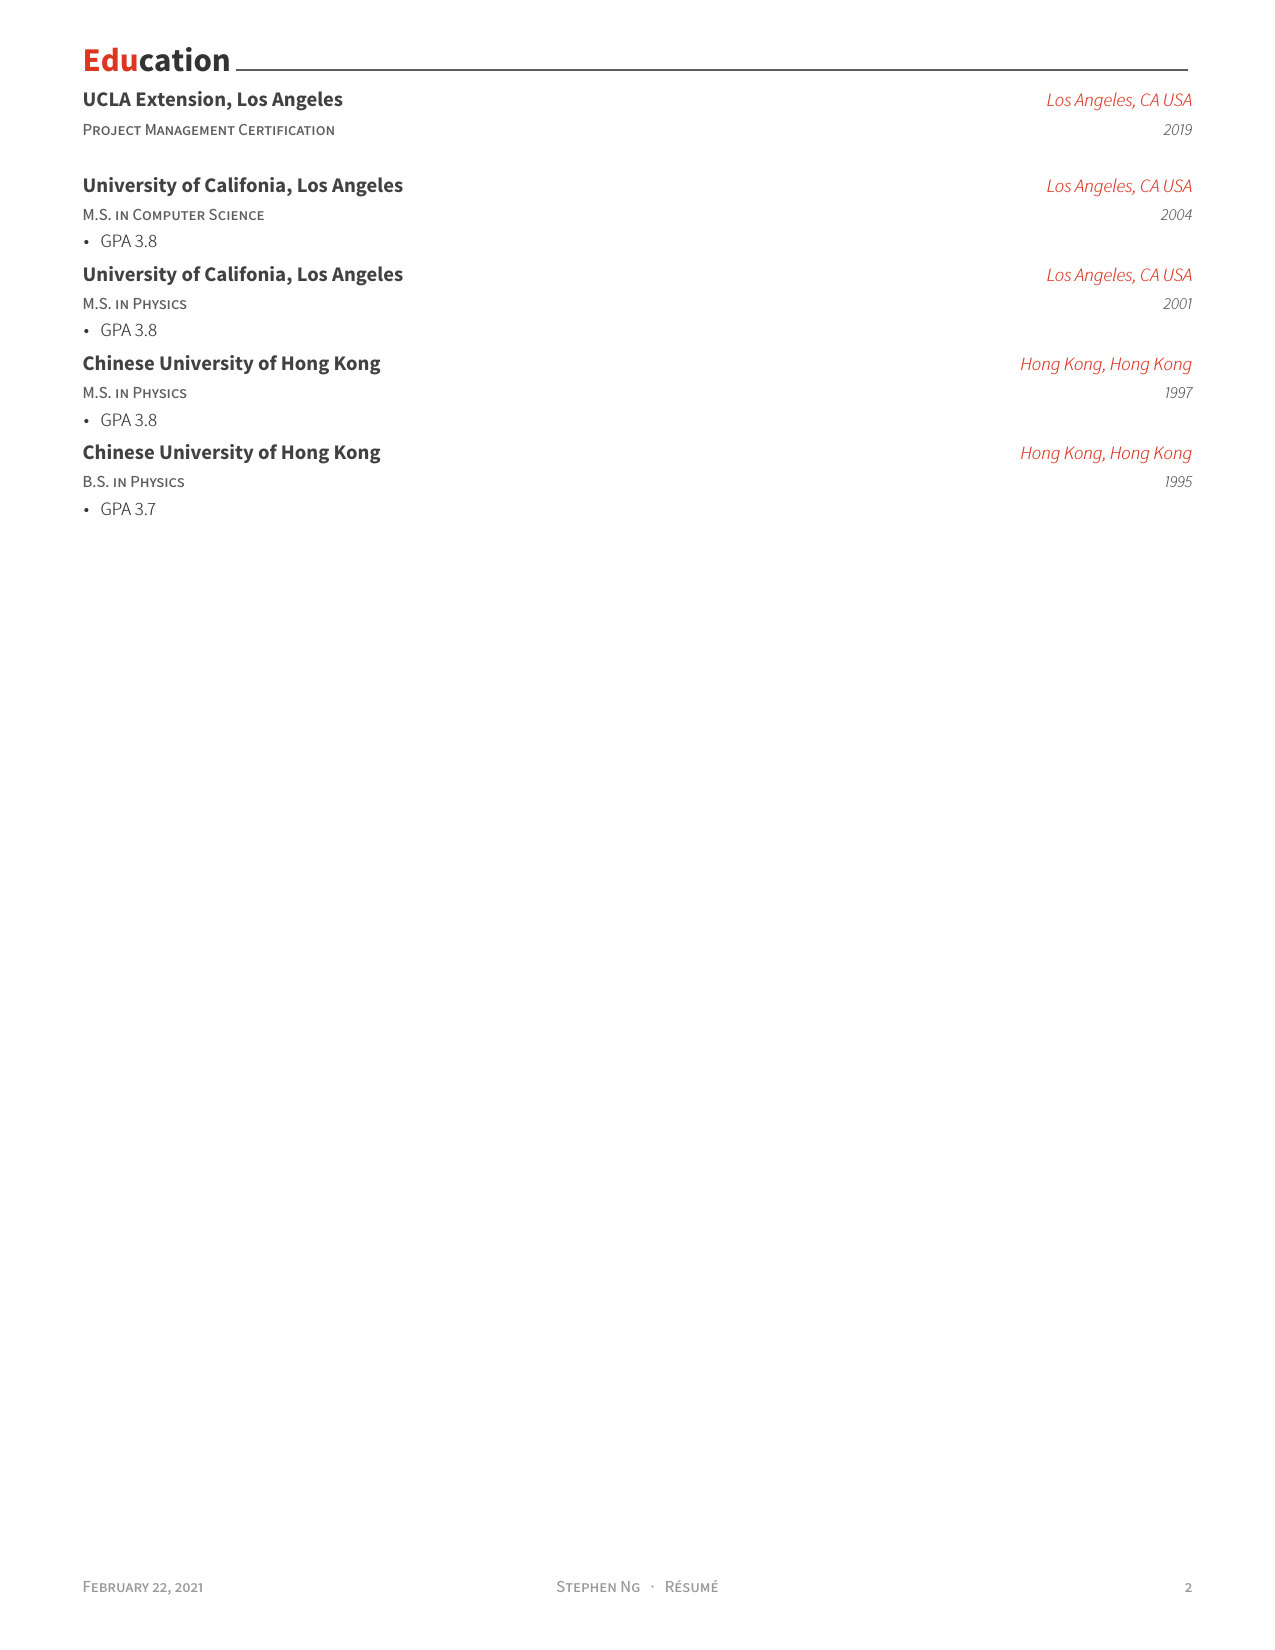
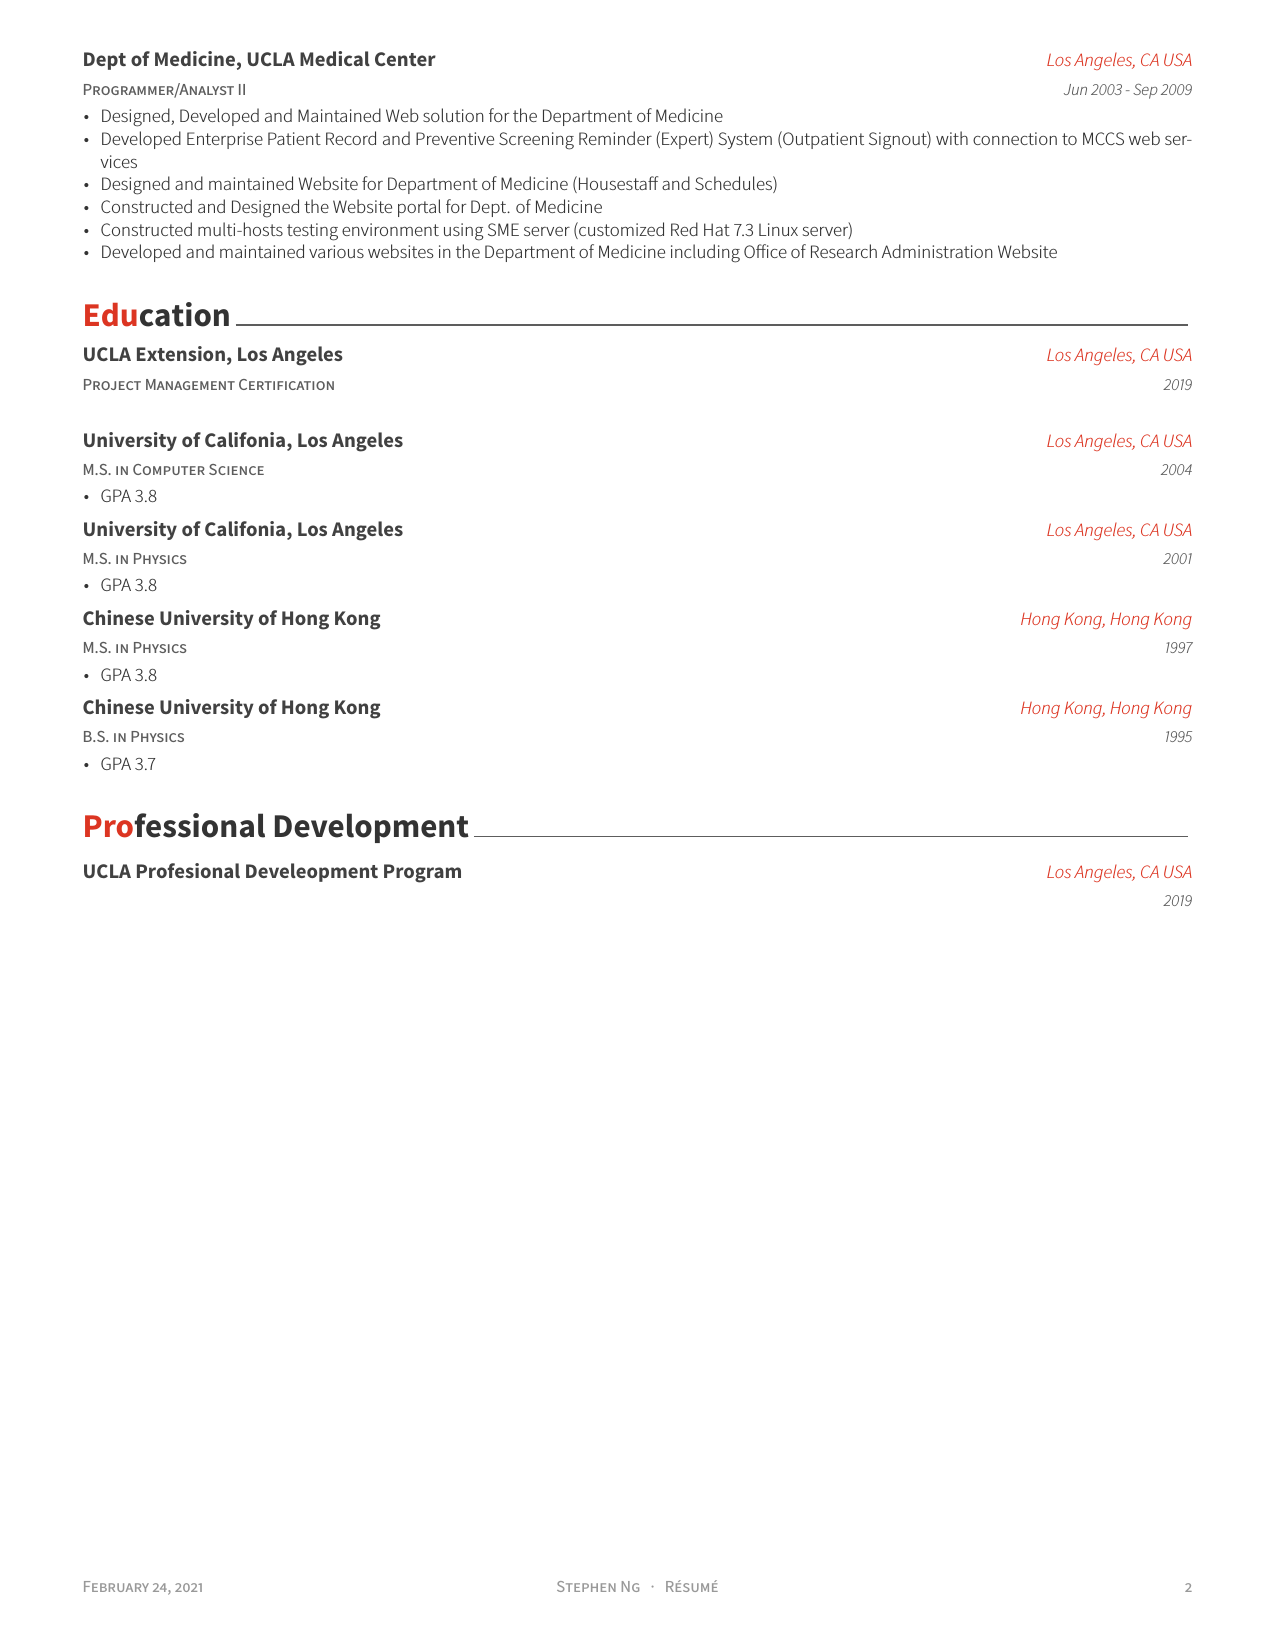
update resume to detail accomblishment

diff --git a/myresume/resume/experience.tex b/myresume/resume/experience.tex
@@ -19,8 +19,12 @@
     {Aug 2018 - Present} % Date(s)
     {
       \begin{cvitems} % Description(s) of tasks/responsibilities
-        \item {Work as technical lead for two large scale projects by designing system architecture, create implementation/release plan and setting up team project management environment using GitLab platform.  I also mentor and assign work to a Programmer/Analyst III }
-	\item {Design and Development of next version of a Web-based Application for reporting of faculty academic productivity using a services based architecture. The application is implemented using RESTful API backend with Java/Grail environment and Spring Framework and Single Page Application Frontend with JavaScript/Typescript environment and Angular 7 framework } 
+        \item {Work as system architect and technical lead for two large scale projects}
+        \item {Develop implementation and release plan to ensure rapid flow of the software life cycle}
+        \item { Work with system operation team to use Puppet to provision both development and production environment to ensure stability of the application}
+        \item {Provide mentorship and work assignment  to a Programmer/Analyst III }
+        \item {Provide program management experties and set up team project management environment using GitLab platform}
+	       \item {Design and Develop of next generation of  Faculty academic productivity metrics application using latest services based architecture to improve agility and performance.  The application is implemented using RESTful API backend with Java/Grail environment and Spring Framework and Single Page Application Frontend with JavaScript/Typescript environment and Angular 7 framework } 
       \end{cvitems}
     }
 	
@@ -32,8 +36,8 @@
     {Dec 2015 - Aug 2018} % Date(s)
     {
       \begin{cvitems} % Description(s) of tasks/responsibilities
-        \item {Design and Develop Web-based Application to generate structured and comprehensive reports of faculty academic productivity by integrating multiple data sources. Application is used by more than 100 faculties, administrative assistants, fund managers, clinical trials study coordinators and department executive for academic personnel decision. The application is developed using Java/Grails environment with Spring Framework}
-        \item {Design and Develop Web-based Application to accept and monitor clinical trials requests to the department. The application is developed using PHP/MySql environment with Laravel Framework}       
+        \item {Design and Develop Web-based Application to generate academic performance metrics  of faculty academic productivity by integrating multiple internal and external data sources, serve more than 100 faculties, administrative assistants, fund managers, clinical trials study coordinators and department executive for academic personnel decision. The application was showcased multiple times in UC-wide conferences. The application is developed using Java/Grails environment with Spring Framework}
+        \item {Design and Develop Web-based Application to support clinical trials requests from the whole institution to the department. The application is known as the golden standard for clinical trial management system. The application is developed using PHP/MySql environment with Laravel Framework}       
       \end{cvitems}
     }
 	
@@ -44,8 +48,8 @@
     {Dec 2012 - Dec 2015} % Date(s)
     {
       \begin{cvitems} % Description(s) of tasks/responsibilities
-        \item {Design and Develop online learning environment using PHP with Oracle backend}
-        \item {Design and Develop administration tools }       
+        \item {Design and Develop online learning environment  using PHP with Oracle backend}
+        \item {Design and Develop internal administration tools to support students , faculty and administrators  in the remote learning environment}       
       \end{cvitems}
     }
 

diff --git a/myresume/resume/summary.tex b/myresume/resume/summary.tex
@@ -1,7 +1,7 @@
 %-------------------------------------------------------------------------------
 %	SECTION TITLE
 %-------------------------------------------------------------------------------
-\cvsection{Summary}
+\cvsection{Professional Summary}
 
 
 %-------------------------------------------------------------------------------
@@ -10,5 +10,5 @@
 \begin{cvparagraph}
 
 %---------------------------------------------------------
-I am a Web Application Developer specialized in creating solutions for health care professionals and administrators. I have extensive experiences in different application platforms, design patterns and development paradigms. Strong commitments in following industry best practices, maintaining communication with customers and long-term maintainability of the products.
+Web Application Developer with proven abilitiy to design and implement solutions in health care industry, bring strong expertises and experiences in various application platforms, design patterns and development paradigms. Strong commitments in following industry best practices, maintaining communication with customers and establish long-term maintainability of the products, known for ability to develop expectional application from begining to the end. 
 \end{cvparagraph}

diff --git a/myresume/resume/development.tex b/myresume/resume/development.tex
@@ -1,0 +1,23 @@
+%-------------------------------------------------------------------------------
+%	SECTION TITLE
+%-------------------------------------------------------------------------------
+\cvsection{Professional Development}
+
+
+%-------------------------------------------------------------------------------
+%	CONTENT
+%-------------------------------------------------------------------------------
+\begin{cventries}
+
+%---------------------------------------------------------
+
+   \cventry
+    {} % Degree
+    {UCLA Profesional Develeopment Program} % Institution
+    {Los Angeles, CA USA} % Location
+    {2019} % Date(s)
+    {}
+ 
+
+%---------------------------------------------------------
+\end{cventries}

diff --git a/myresume/resume/skill.tex b/myresume/resume/skill.tex
@@ -16,7 +16,7 @@
 %---------------------------------------------------------
   \cvskill
     {Web} % Category
-    {Grails, Laravel, Angular, jQuery} % Skills
+    {Grails, Laravel, Angular, React, jQuery} % Skills
 
 %---------------------------------------------------------
   \cvskill
@@ -27,6 +27,12 @@
   \cvskill
     {Servers} % Category
     {Linux, Window Server, AWS, Docker, Puppet} % Skills
+
+
+%---------------------------------------------------------
+  \cvskill
+    {Management} % Category
+    {Project Management} % Skills
 
 
 %---------------------------------------------------------

diff --git a/myresume/resume/education.tex b/myresume/resume/education.tex
@@ -11,12 +11,13 @@
 
 %---------------------------------------------------------
 
-  \cventry
+ \cventry
     {Project Management Certification} % Degree
     {UCLA Extension, Los Angeles} % Institution
     {Los Angeles, CA USA} % Location
     {2019} % Date(s)
     {}
+
 
   \cventry
     {M.S. in Computer Science} % Degree

diff --git a/myresume/resume.tex b/myresume/resume.tex
@@ -95,6 +95,7 @@
 \input{resume/skill.tex}
 \input{resume/experience.tex}
 \input{resume/education.tex}
+\input{resume/development.tex}
 %\input{resume/honors.tex}
 %\input{resume/presentation.tex}
 %\input{resume/writing.tex}
